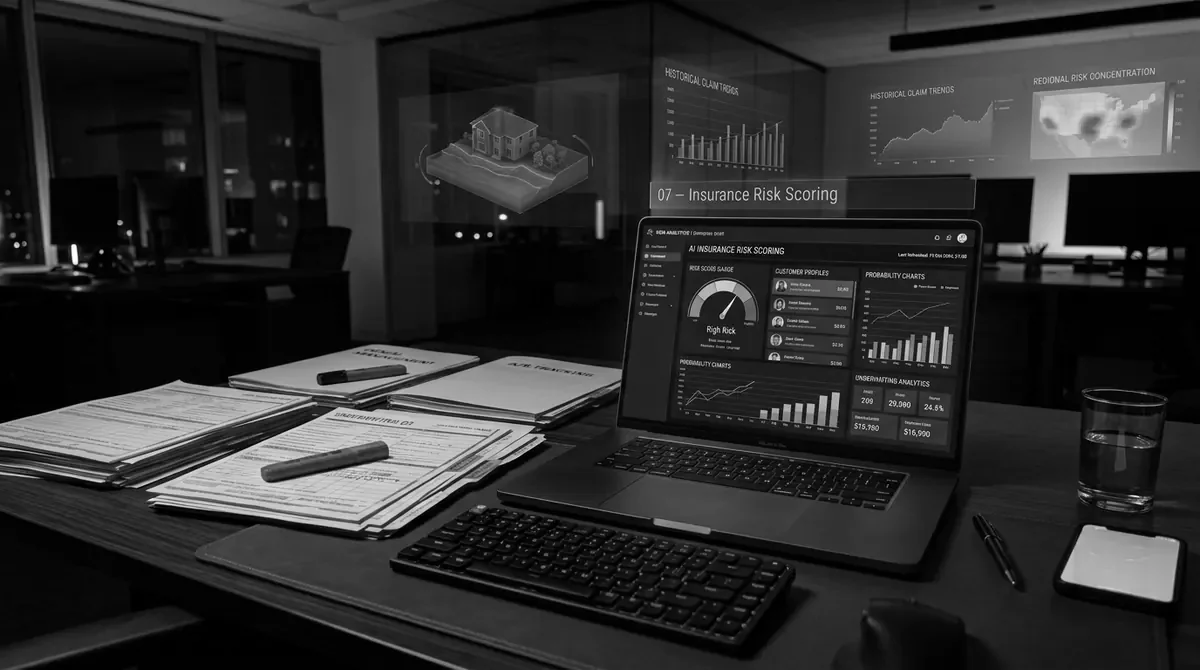
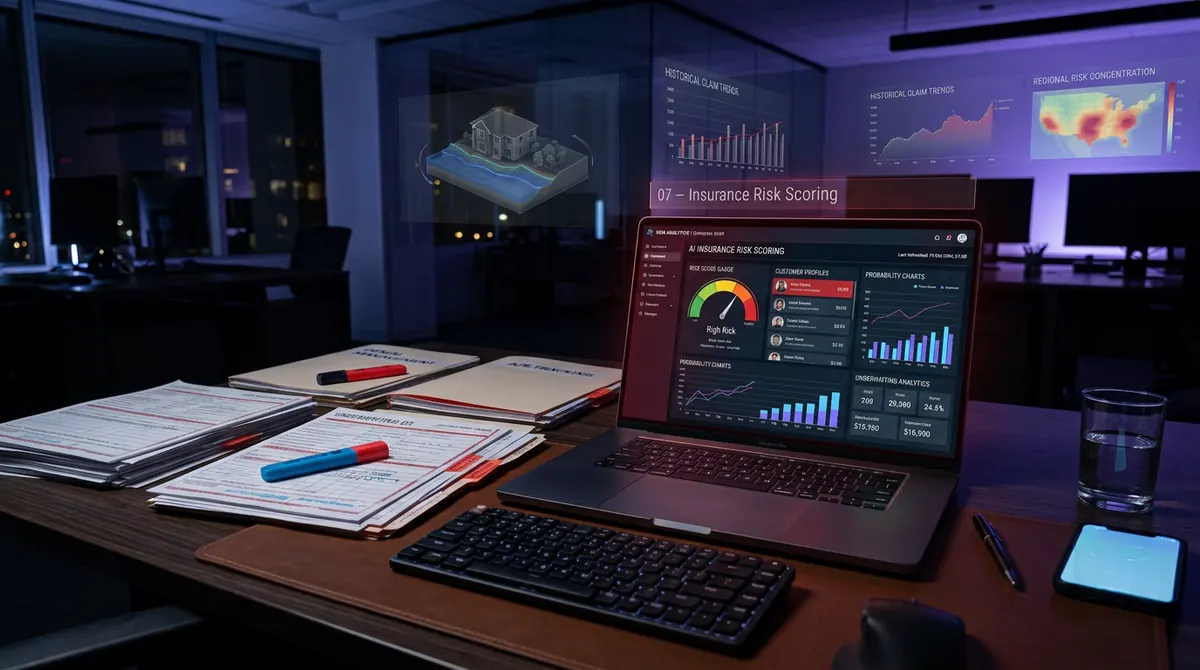
Restore original colours on case-study images
Revert the greyscale conversion of case-study images and remove the
CSS grayscale filters; industry hero art stays greyscale.

diff --git a/src/pages/IndividualCaseStudy.jsx b/src/pages/IndividualCaseStudy.jsx
@@ -383,7 +383,7 @@ const CSS = `
 .cs-side .cs-glance div:last-child{border-bottom:0}
 .cs-fig--inline{display:none}
 .cs-fig{margin:0 0 clamp(32px,4.5vw,56px);border-radius:20px;overflow:hidden;border:1px solid rgba(0,0,0,.1);background:#0b0b0b;line-height:0}
-.cs-fig img{width:100%;height:auto;display:block;filter:grayscale(1)}
+.cs-fig img{width:100%;height:auto;display:block}
 .cs-fig--side img{aspect-ratio:4/3;object-fit:cover}
 .cs-sec{scroll-margin-top:104px;margin-bottom:clamp(36px,5vw,64px)}
 .cs-sec h2{margin:0 0 clamp(14px,1.8vw,20px);font-size:var(--fs-h3);font-weight:800;letter-spacing:-.02em;color:#0b0b0b;text-align:left}
@@ -414,7 +414,7 @@ const CSS = `
 .cs-rgrid{display:grid;grid-template-columns:repeat(auto-fit,minmax(min(100%,300px),1fr));gap:clamp(16px,2vw,26px)}
 .cs-rcard{display:flex;flex-direction:column;border-radius:18px;overflow:hidden;background:rgba(255,255,255,.04);border:1px solid rgba(255,255,255,.12);text-decoration:none;color:#fff;transition:transform .3s,border-color .3s,background .3s}
 .cs-rcard:hover{transform:translateY(-5px);border-color:rgba(255,255,255,.34);background:rgba(255,255,255,.07)}
-.cs-rcard img{filter:grayscale(1);width:100%;aspect-ratio:16/9;object-fit:cover;display:block;background:#161616}
+.cs-rcard img{width:100%;aspect-ratio:16/9;object-fit:cover;display:block;background:#161616}
 .cs-rbody{padding:clamp(16px,2vw,22px);display:flex;flex-direction:column;gap:10px;flex:1}
 .cs-rbody small{font-size:var(--fs-label);font-weight:700;letter-spacing:.14em;text-transform:uppercase;color:rgba(255,255,255,.55)}
 .cs-rbody h3{margin:0;font-size:var(--fs-card-title);font-weight:700;line-height:1.3;color:#fff;text-align:left}

diff --git a/src/pages/CaseStudies.jsx b/src/pages/CaseStudies.jsx
@@ -174,7 +174,7 @@ function CaseStudyCard({ cs, i, isFeatured = false }) {
               backgroundSize: 'cover', backgroundPosition: 'center',
               transform: hovered ? 'scale(1.06)' : 'scale(1)',
               transition: 'transform 0.7s cubic-bezier(0.16, 1, 0.3, 1)',
-              filter: hovered ? 'grayscale(1) brightness(0.75)' : 'grayscale(1) brightness(0.68)',
+              filter: hovered ? 'brightness(0.75)' : 'brightness(0.68)',
             }} />
             <div style={{ position: 'absolute', inset: 0, background: 'linear-gradient(to bottom, rgba(6,6,6,0) 45%, rgba(6,6,6,0.88) 100%)' }} />
             <div style={{
